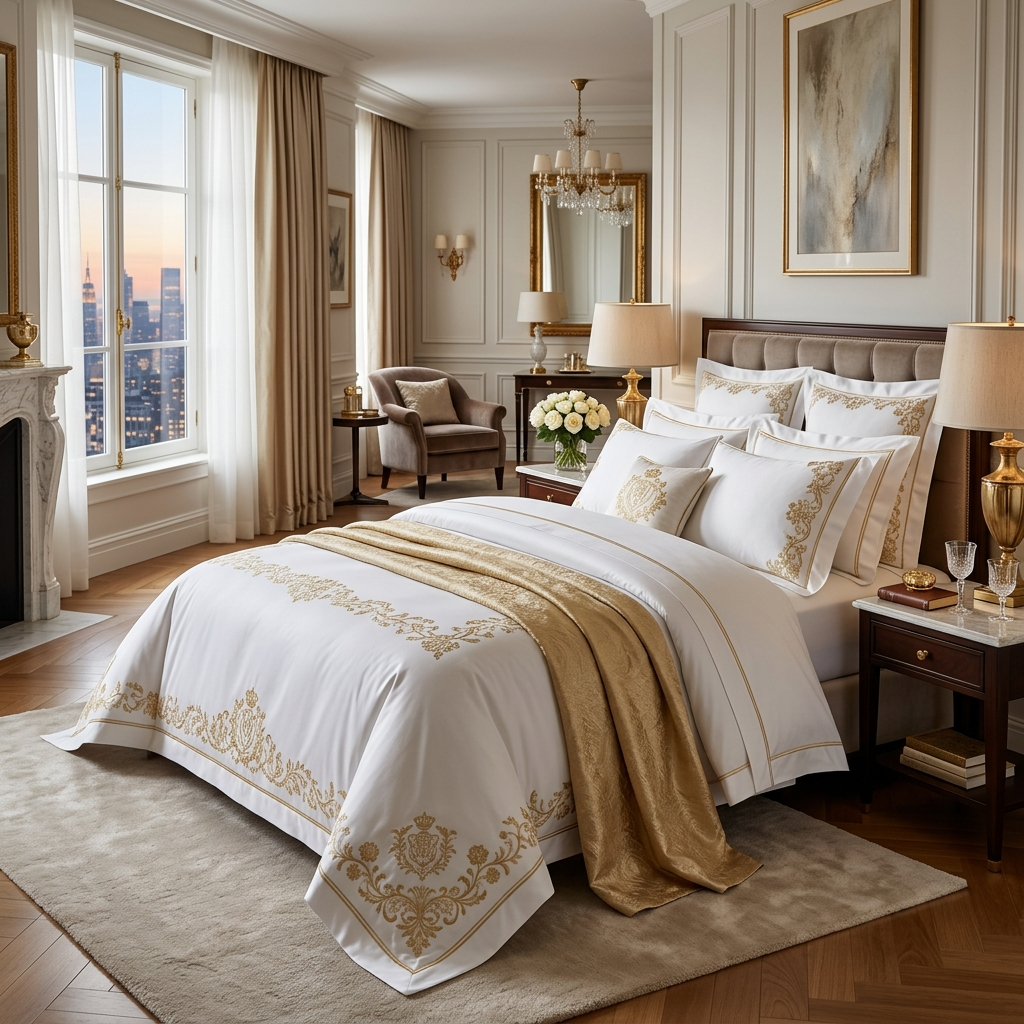
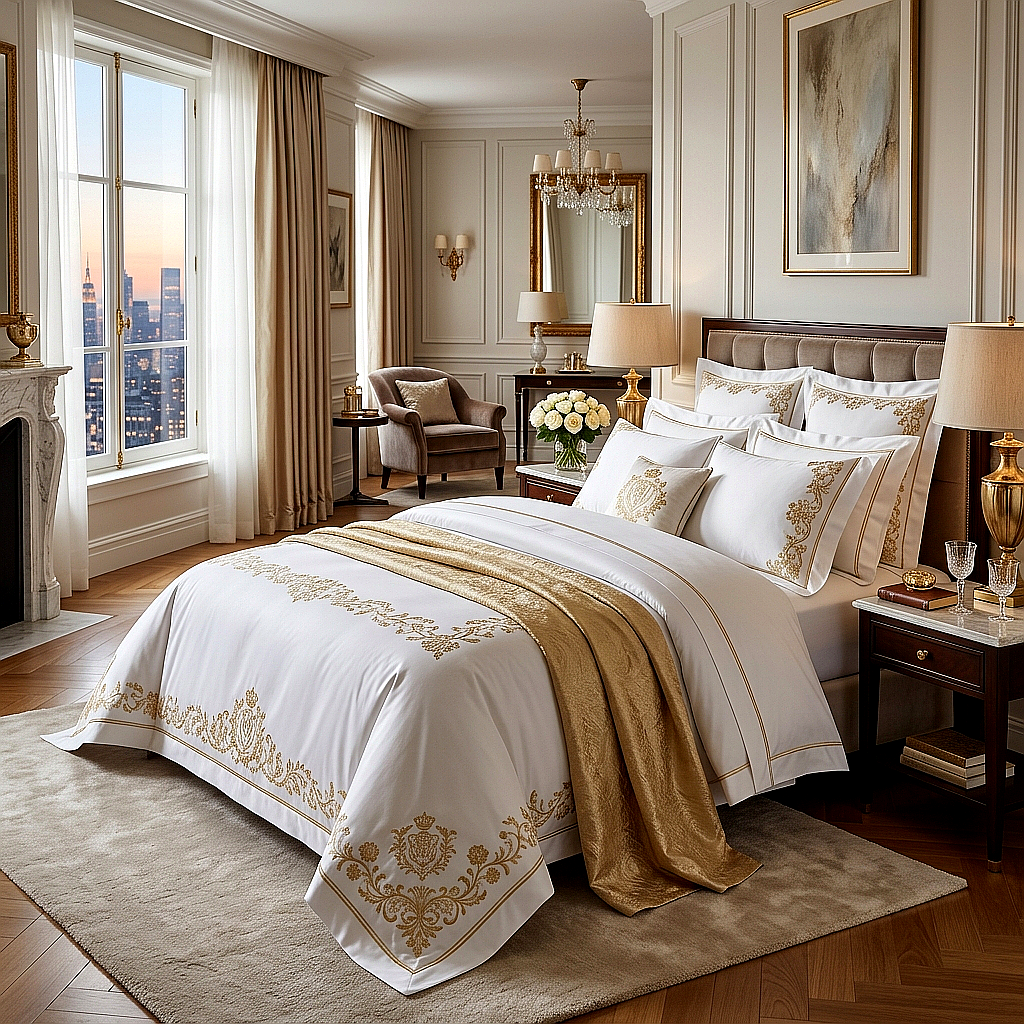
added collection

diff --git a/src/components/CollectionsPage.jsx b/src/components/CollectionsPage.jsx
@@ -9,6 +9,11 @@ import salonTowelsCat from '../assets/salon_towels_cat.png';
 import safetyWearCat from '../assets/safety_wear_cat.png';
 import thermalBlanketsCat from '../assets/thermal_blankets_cat.png';
 import bathBlanketsCat from '../assets/bath_blankets_cat.png';
+import bathBlanketMain from '../assets/bath_blanket_main.png';
+import bathBlanketPink from '../assets/bath_blanket_pink.png';
+import bathBlanketOrange from '../assets/bath_blanket_orange.png';
+import bathBlanketCoral from '../assets/bath_blanket_coral.png';
+import bathBlanketWhite from '../assets/bath_blanket_white.png';
 
 import './CollectionsPage.css';
 
@@ -81,7 +86,13 @@ const CollectionsPage = ({
               title: 'Heavy-Napped Flannel Wraps',
               tag: 'CLINICAL // WRAPS',
               desc: 'Double-sided heavy flannel sheets designed for post-operative patient care. Retains body heat rapidly while maintaining a soft, non-abrasive touch against sensitive skin, standing up to intensive hospital laundry sanitization.',
-              image: bathBlanketsCat,
+              images: {
+                main: bathBlanketMain,
+                pink: bathBlanketPink,
+                orange: bathBlanketOrange,
+                coral: bathBlanketCoral,
+                white: bathBlanketWhite
+              },
               specs: {
                 'Fiber Blend': '80% Organic Cotton / 20% Polyester',
                 'Napping Style': 'Double-sided high-density brushed nap',
@@ -359,25 +370,65 @@ const CollectionsPage = ({
                 
                 {/* Image Pane Container */}
                 <div className="collection-img-pane">
-                  <div className="collection-img-frame">
-                    <div className="collection-camera-grid"></div>
-                    <div className="collection-img-overlay" style={{ display: 'flex', alignItems: 'center', gap: '8px' }}>
-                      <span className="collection-rec-dot"></span>
-                      CATALOG // {prod.tag}
+                  {prod.images ? (
+                    <div className="collection-multi-grid">
+                      {/* Left main image */}
+                      <div className="collection-img-frame" style={{ height: '100%' }}>
+                        <div className="collection-camera-grid"></div>
+                        <div className="collection-img-overlay" style={{ display: 'flex', alignItems: 'center', gap: '8px' }}>
+                          <span className="collection-rec-dot"></span>
+                          CATALOG // {prod.tag}
+                        </div>
+                        <img 
+                          className="collection-img"
+                          src={prod.images.main} 
+                          alt={prod.title} 
+                        />
+                        <div className="collection-img-coordinates">
+                          <span>COORDS: {detailData.coordinates}</span>
+                          <span style={{ display: 'flex', alignItems: 'center', gap: '6px' }}>
+                            <span className="collection-rec-dot" style={{ backgroundColor: '#22c55e', animation: 'collectionRecPulse 2s infinite' }}></span>
+                            VERIFIED // OK
+                          </span>
+                        </div>
+                      </div>
+                      {/* Right 2x2 grid of small images */}
+                      <div className="collection-small-grid">
+                        <div className="collection-img-frame" style={{ height: '100%' }}>
+                          <img className="collection-img" src={prod.images.pink} alt="Pink variety" />
+                        </div>
+                        <div className="collection-img-frame" style={{ height: '100%' }}>
+                          <img className="collection-img" src={prod.images.orange} alt="Orange variety" />
+                        </div>
+                        <div className="collection-img-frame" style={{ height: '100%' }}>
+                          <img className="collection-img" src={prod.images.coral} alt="Coral variety" />
+                        </div>
+                        <div className="collection-img-frame" style={{ height: '100%' }}>
+                          <img className="collection-img" src={prod.images.white} alt="White variety" />
+                        </div>
+                      </div>
                     </div>
-                    <img 
-                      className="collection-img"
-                      src={prod.image} 
-                      alt={prod.title} 
-                    />
-                    <div className="collection-img-coordinates">
-                      <span>COORDS: {detailData.coordinates}</span>
-                      <span style={{ display: 'flex', alignItems: 'center', gap: '6px' }}>
-                        <span className="collection-rec-dot" style={{ backgroundColor: '#22c55e', animation: 'collectionRecPulse 2s infinite' }}></span>
-                        VERIFIED // OK
-                      </span>
+                  ) : (
+                    <div className="collection-img-frame">
+                      <div className="collection-camera-grid"></div>
+                      <div className="collection-img-overlay" style={{ display: 'flex', alignItems: 'center', gap: '8px' }}>
+                        <span className="collection-rec-dot"></span>
+                        CATALOG // {prod.tag}
+                      </div>
+                      <img 
+                        className="collection-img"
+                        src={prod.image} 
+                        alt={prod.title} 
+                      />
+                      <div className="collection-img-coordinates">
+                        <span>COORDS: {detailData.coordinates}</span>
+                        <span style={{ display: 'flex', alignItems: 'center', gap: '6px' }}>
+                          <span className="collection-rec-dot" style={{ backgroundColor: '#22c55e', animation: 'collectionRecPulse 2s infinite' }}></span>
+                          VERIFIED // OK
+                        </span>
+                      </div>
                     </div>
-                  </div>
+                  )}
                 </div>
 
                 {/* Info & Telemetry Pane */}
@@ -453,7 +504,7 @@ const CollectionsPage = ({
           </div>
 
           {/* Action CTAs */}
-          <div style={{ marginTop: '80px', borderTop: '1px solid var(--border-color)', paddingTop: '48px', display: 'flex', justifyContent: 'space-between', alignItems: 'center', flexWrap: 'wrap', gap: '20px' }}>
+          <div style={{ marginTop: '80px', borderTop: '1px solid var(--border-color)', paddingTop: '48px', display: 'flex', justifyContent: 'flex-start', alignItems: 'center' }}>
             <button 
               className="hero-company-profile-link" 
               style={{ background: 'none', border: 'none', cursor: 'pointer', padding: 0 }}
@@ -462,15 +513,6 @@ const CollectionsPage = ({
               }}
             >
               &larr; Return to Collections Portal
-            </button>
-            <button 
-              className="btn btn-primary"
-              onClick={() => {
-                setCurrentPage('contact');
-                window.scrollTo(0, 0);
-              }}
-            >
-              Request B2B Quotation
             </button>
           </div>
 

diff --git a/src/components/CustomCursor.jsx b/src/components/CustomCursor.jsx
@@ -1,0 +1,84 @@
+import React, { useState, useEffect } from 'react';
+
+const CustomCursor = () => {
+  const [position, setPosition] = useState({ x: 0, y: 0 });
+  const [ringPosition, setRingPosition] = useState({ x: 0, y: 0 });
+  const [isHovered, setIsHovered] = useState(false);
+  const [isVisible, setIsVisible] = useState(false);
+
+  useEffect(() => {
+    const handleMouseMove = (e) => {
+      setPosition({ x: e.clientX, y: e.clientY });
+      if (!isVisible) setIsVisible(true);
+    };
+
+    const handleMouseLeave = () => {
+      setIsVisible(false);
+    };
+
+    window.addEventListener('mousemove', handleMouseMove);
+    document.addEventListener('mouseleave', handleMouseLeave);
+
+    return () => {
+      window.removeEventListener('mousemove', handleMouseMove);
+      document.removeEventListener('mouseleave', handleMouseLeave);
+    };
+  }, [isVisible]);
+
+  // Smooth trailing effect for the ring (lerp)
+  useEffect(() => {
+    let rId;
+    const updateRing = () => {
+      setRingPosition((prev) => {
+        const dx = position.x - prev.x;
+        const dy = position.y - prev.y;
+        return {
+          x: prev.x + dx * 0.15,
+          y: prev.y + dy * 0.15,
+        };
+      });
+      rId = requestAnimationFrame(updateRing);
+    };
+    rId = requestAnimationFrame(updateRing);
+    return () => cancelAnimationFrame(rId);
+  }, [position]);
+
+  // Track hover status on interactive components
+  useEffect(() => {
+    const addHoverListeners = () => {
+      const interactives = document.querySelectorAll(
+        'a, button, select, input, textarea, .showroom-nav-btn, .tab-btn, [style*="cursor: pointer"]'
+      );
+      interactives.forEach((el) => {
+        el.addEventListener('mouseenter', () => setIsHovered(true));
+        el.addEventListener('mouseleave', () => setIsHovered(false));
+      });
+    };
+
+    addHoverListeners();
+
+    const observer = new MutationObserver(addHoverListeners);
+    observer.observe(document.body, { childList: true, subtree: true });
+
+    return () => {
+      observer.disconnect();
+    };
+  }, []);
+
+  if (!isVisible) return null;
+
+  return (
+    <div className={isHovered ? 'custom-cursor-hover' : ''}>
+      <div
+        className="custom-cursor-dot"
+        style={{ left: `${position.x}px`, top: `${position.y}px` }}
+      />
+      <div
+        className="custom-cursor-ring"
+        style={{ left: `${ringPosition.x}px`, top: `${ringPosition.y}px` }}
+      />
+    </div>
+  );
+};
+
+export default CustomCursor;

diff --git a/src/index.css b/src/index.css
@@ -5345,3 +5345,46 @@ p {
 .animate-float-subtle {
   animation: float-subtle 6s infinite ease-in-out;
 }
+
+/* Custom Cursor Styles */
+@media (pointer: fine) {
+  html, body, a, button, select, input, textarea, [role="button"], .nav-link, .hero-company-profile-link {
+    cursor: none !important;
+  }
+  
+  .custom-cursor-dot {
+    width: 6px;
+    height: 6px;
+    background-color: var(--accent);
+    position: fixed;
+    transform: translate(-50%, -50%);
+    border-radius: 50%;
+    pointer-events: none;
+    z-index: 99999;
+    transition: width 0.2s, height 0.2s, background-color 0.2s;
+  }
+
+  .custom-cursor-ring {
+    width: 32px;
+    height: 32px;
+    border: 1.5px solid var(--accent);
+    position: fixed;
+    transform: translate(-50%, -50%);
+    border-radius: 50%;
+    pointer-events: none;
+    z-index: 99998;
+    transition: width 0.25s, height 0.25s, border-color 0.25s, background-color 0.25s;
+  }
+
+  .custom-cursor-hover .custom-cursor-dot {
+    width: 0px;
+    height: 0px;
+  }
+
+  .custom-cursor-hover .custom-cursor-ring {
+    width: 48px;
+    height: 48px;
+    background-color: rgba(239, 131, 84, 0.08);
+    border-color: var(--accent);
+  }
+}

diff --git a/src/components/CollectionsPage.css b/src/components/CollectionsPage.css
@@ -361,3 +361,27 @@
 [data-theme="light"] .collection-spec-val {
   color: var(--text-primary);
 }
+
+/* Multi-image Showcase Layout */
+.collection-multi-grid {
+  display: grid;
+  grid-template-columns: 1.2fr 0.8fr;
+  gap: 12px;
+  height: 380px;
+}
+
+.collection-small-grid {
+  display: grid;
+  grid-template-columns: 1fr 1fr;
+  grid-template-rows: 1fr 1fr;
+  gap: 8px;
+  height: 100%;
+}
+
+@media (max-width: 768px) {
+  .collection-multi-grid {
+    grid-template-columns: 1fr;
+    grid-template-rows: 280px 200px;
+    height: auto;
+  }
+}

diff --git a/src/App.jsx b/src/App.jsx
@@ -21,6 +21,7 @@ import AboutPage from './components/AboutPage';
 import FacilitiesPage from './components/FacilitiesPage';
 import CollectionsPage from './components/CollectionsPage';
 import QualityPage from './components/QualityPage';
+import CustomCursor from './components/CustomCursor';
 
 function App() {
   // Theme state locked to light mode
@@ -197,6 +198,7 @@ function App() {
 
   return (
     <>
+      <CustomCursor />
       {/* HEADER SECTION */}
       <Header
         scrolled={scrolled}